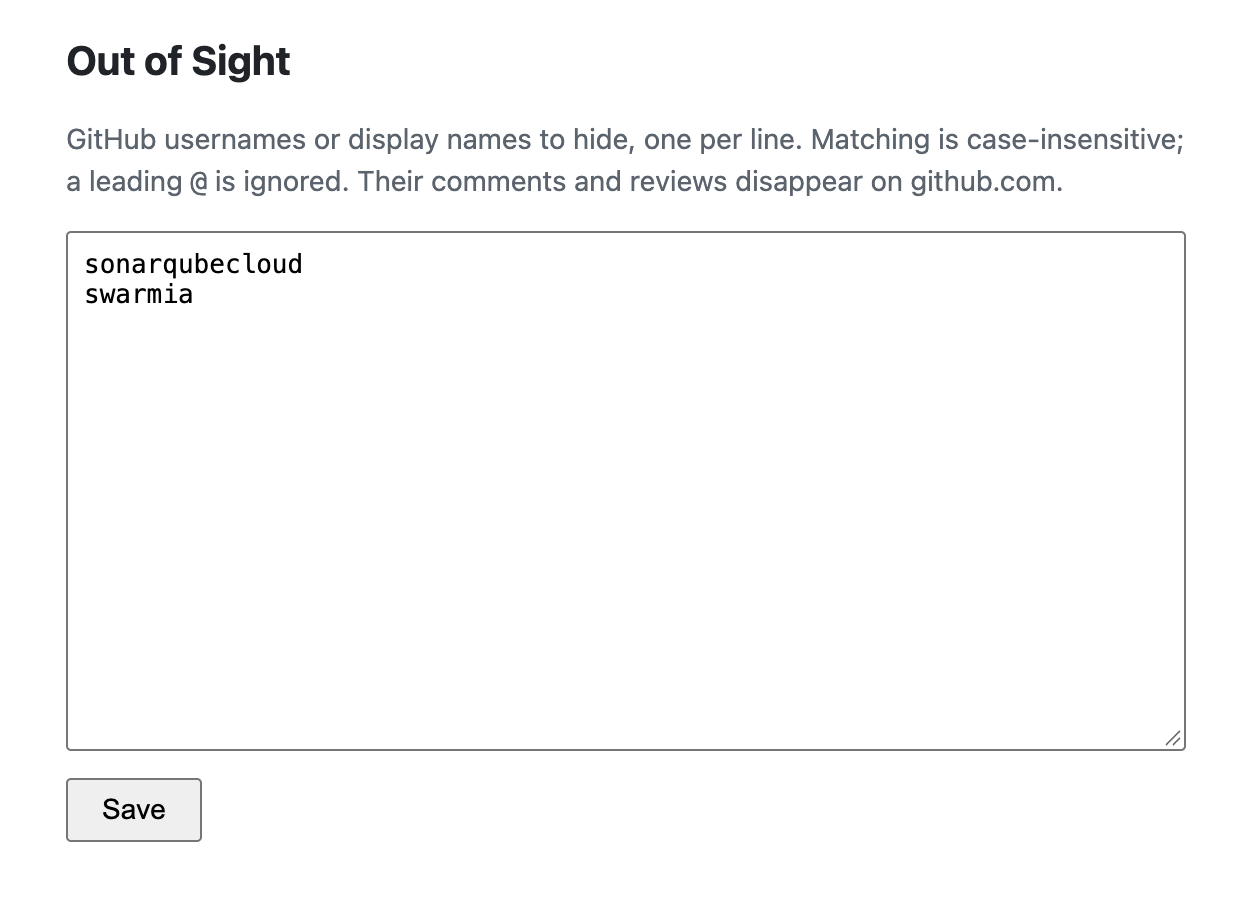
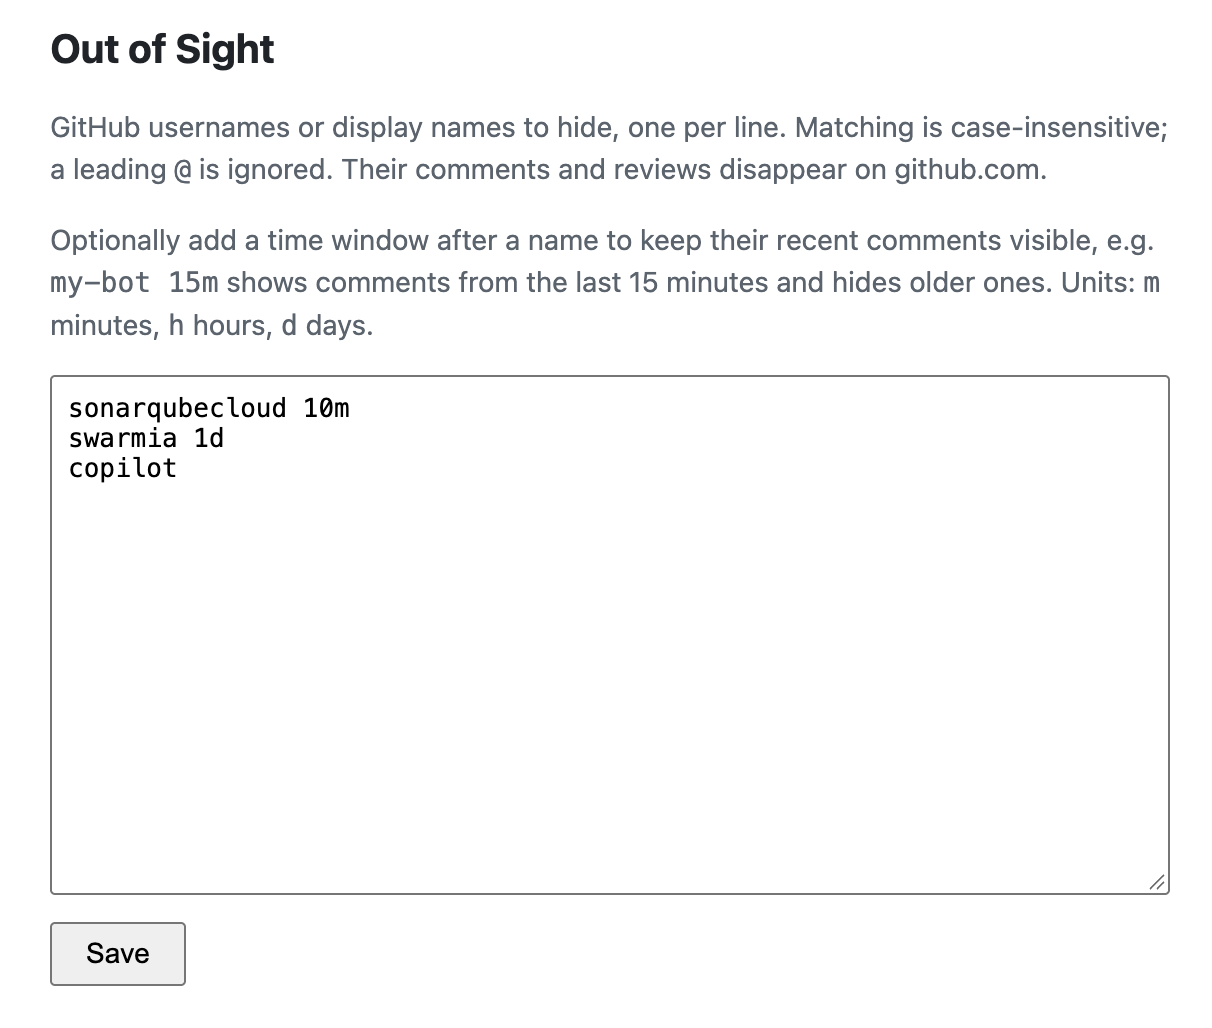
Support per-user time window for hiding comments
A duration after a name in settings (e.g. "my-bot 15m") keeps that
user's comments newer than the window visible; older ones are hidden,
re-checked every 30 seconds. Names without a duration are always hidden.
Settings page explains the format; README gets a collapsible changelog
and an updated settings screenshot.

diff --git a/content.js b/content.js
@@ -48,6 +48,25 @@
   const normalize = (s) =>
     (s || '').trim().replace(/^@/, '').replace(/\[bot\]$/i, '').replace(/\s+/g, ' ').trim().toLowerCase();
 
+  // Settings line -> [name, graceMs]. An optional trailing duration keeps the
+  // user's recent comments visible: "my-bot 15m" hides only comments older
+  // than 15 minutes. Units: m (minutes), h (hours), d (days). No duration =
+  // always hide.
+  const UNIT_MS = { m: 60e3, h: 3600e3, d: 86400e3 };
+  function parseEntry(line) {
+    const m = (line || '').trim().match(/^(.*?)\s+(\d+)\s*([mhd])$/i);
+    if (!m) return [normalize(line), 0];
+    return [normalize(m[1]), Number(m[2]) * UNIT_MS[m[3].toLowerCase()]];
+  }
+  function parseList(lines) {
+    const map = new Map();
+    for (const line of lines || []) {
+      const [name, grace] = parseEntry(line);
+      if (name) map.set(name, grace);
+    }
+    return map;
+  }
+
   function authorKeys(el) {
     const keys = new Set();
     const add = (v) => { const n = normalize(v); if (n) keys.add(n); };
@@ -75,9 +94,19 @@
     return keys;
   }
 
-  function isBlocked(el, blocked) {
-    for (const k of authorKeys(el)) if (blocked.has(k)) return true;
-    return false;
+  // Grace period (ms) if the author is blocked, otherwise undefined.
+  function blockedGrace(el, blocked) {
+    for (const k of authorKeys(el)) if (blocked.has(k)) return blocked.get(k);
+    return undefined;
+  }
+
+  // Still inside the grace window? Uses the comment's own timestamp; comments
+  // without one are treated as old.
+  function withinGrace(container, grace, now) {
+    if (!grace) return false;
+    const t = container.querySelector('relative-time[datetime], time[datetime]');
+    const posted = t && Date.parse(t.getAttribute('datetime'));
+    return Boolean(posted) && now - posted < grace;
   }
 
   function hide(el, hit) {
@@ -93,20 +122,25 @@
     return null;
   }
 
-  function apply(root, blocked) {
+  // blocked: Map of normalized name -> grace period in ms (see parseList).
+  function apply(root, blocked, now = Date.now()) {
     if (!blocked.size) return;
 
     root.querySelectorAll(AUTHOR_SELECTOR).forEach((a) => {
       if (a.closest(IGNORE_SELECTOR)) return;
-      if (!isBlocked(a, blocked)) return;
+      const grace = blockedGrace(a, blocked);
+      if (grace === undefined) return;
 
       const unit = commentUnit(a);
-      if (unit) { hide(unit, true); return; }
+      if (unit) {
+        if (!withinGrace(unit, grace, now)) hide(unit, true);
+        return;
+      }
 
       // Review header ("X reviewed / approved / requested changes") — hide whole review.
       const item = a.closest('.js-timeline-item');
       if (item && item.querySelector('[id^="pullrequestreview-"], .js-comment, .review-comment')) {
-        hide(item, true);
+        if (!withinGrace(item, grace, now)) hide(item, true);
       }
     });
 
@@ -131,11 +165,11 @@
 
   // Exported for tests (Node). In the browser, run as a content script.
   if (typeof module !== 'undefined' && module.exports) {
-    module.exports = { apply, reset, normalize, countHidden };
+    module.exports = { apply, reset, normalize, countHidden, parseList };
     return;
   }
 
-  let blocked = new Set();
+  let blocked = new Map();
   let scheduled = false;
 
   let revealed = false;
@@ -171,7 +205,7 @@
   };
 
   const load = (users) => {
-    blocked = new Set((users || []).map(normalize).filter(Boolean));
+    blocked = parseList(users);
     reset(document);
     schedule();
   };
@@ -183,4 +217,6 @@
 
   new MutationObserver(schedule).observe(document.documentElement, { childList: true, subtree: true });
   document.addEventListener('turbo:load', schedule);
+  // Re-check periodically so comments get hidden once their grace window ends.
+  setInterval(() => { if ([...blocked.values()].some(Boolean)) schedule(); }, 30e3);
 })();

diff --git a/options.html b/options.html
@@ -15,7 +15,8 @@
 <body>
   <h1>Out of Sight</h1>
   <p class="hint">GitHub usernames or display names to hide, one per line. Matching is case-insensitive; a leading <code>@</code> is ignored. Their comments and reviews disappear on github.com.</p>
-  <textarea id="users" spellcheck="false" placeholder="octocat&#10;some-bot[bot]&#10;Jane Doe"></textarea>
+  <p class="hint">Optionally add a time window after a name to keep their recent comments visible, e.g. <code>my-bot 15m</code> shows comments from the last 15 minutes and hides older ones. Units: <code>m</code> minutes, <code>h</code> hours, <code>d</code> days.</p>
+  <textarea id="users" spellcheck="false" placeholder="octocat&#10;some-bot[bot] 15m&#10;Jane Doe 2h"></textarea>
   <div>
     <button id="save">Save</button><span id="status"></span>
   </div>

diff --git a/README.md b/README.md
@@ -8,6 +8,29 @@
 
 <p align="center">Works on both the classic pull request page and GitHub's new pull request overview page.</p>
 
+### Changelog
+
+<details open>
+<summary><sub><b>2026-11-11</b> — Time window per user</sub></summary>
+<sub>
+
+- Add a duration after a name (e.g. `my-bot 15m`): newer comments stay visible, older ones hide automatically.
+
+</sub>
+</details>
+
+<details>
+<summary><sub><b>2026-11-10</b> — Initial release, badge, new PR overview</sub></summary>
+<sub>
+
+- Support GitHub's new pull request overview page.
+- Hidden-count badge: click to show (outlined) or hide hidden comments.
+- Hide bot/app comments and avatars; count one per hidden comment.
+- Logo and README.
+- Initial release: hide GitHub comments and reviews from a list of users.
+
+</sub>
+</details>
 
 ## Installation
 
@@ -37,7 +60,6 @@ Click the `N comments hidden` badge to temporarily show hidden comments. They ar
 
 ### Settings page
 
-Add one username or display name per line, then click **Save**.
+Add one username or display name per line, then click **Save**. Optionally add a time window after a name (e.g. `sonarqubecloud 10m`) to keep that user's comments from the last 10 minutes visible and hide older ones. Units: `m` minutes, `h` hours, `d` days.
 
 ![Settings page](docs/screenshots/settings-page.png)
-
